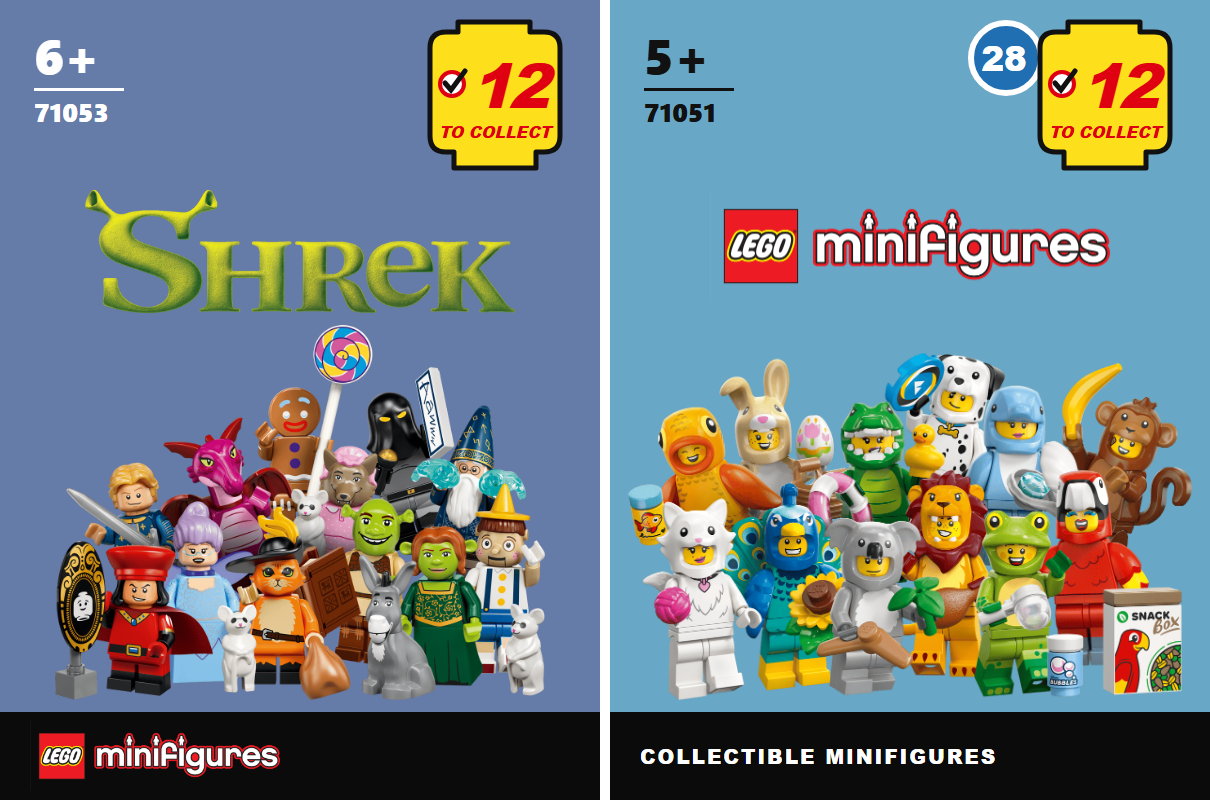
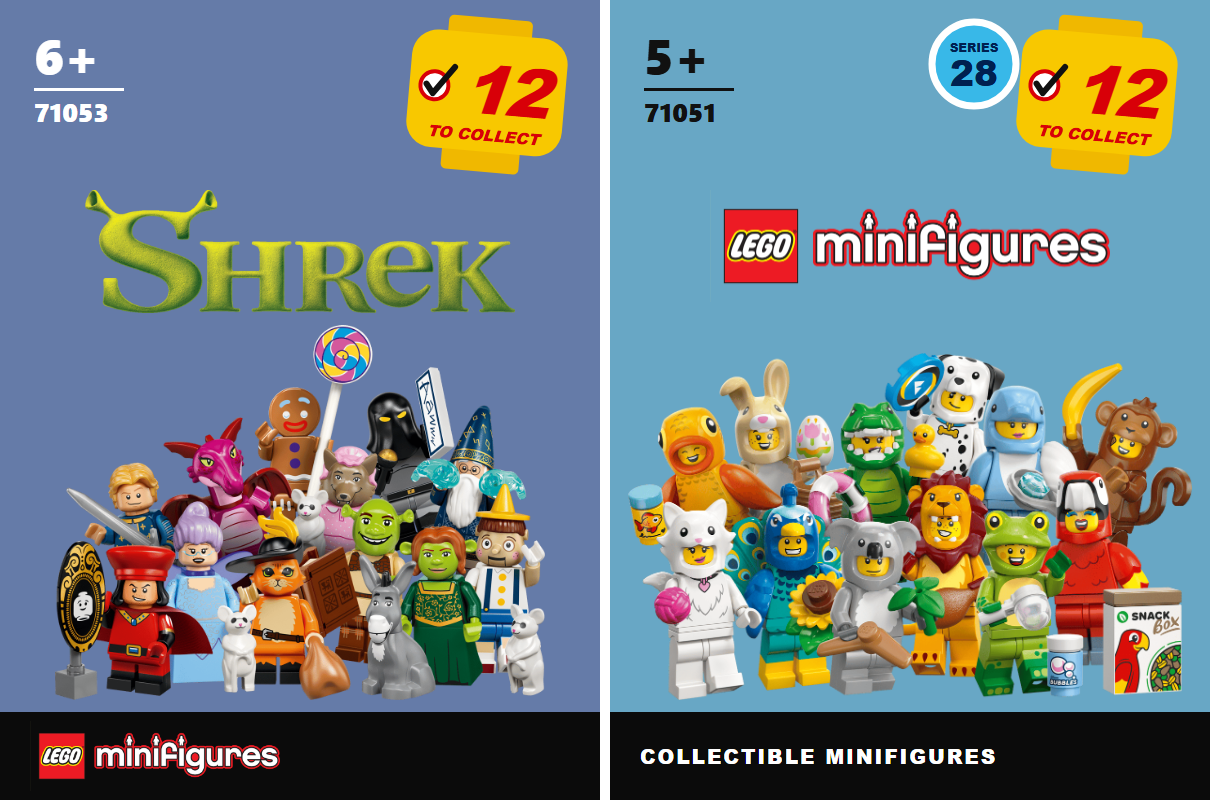
feat(V1-07): badge per owner example, handoff
Round SERIES frame and tilted yellow head, colours sampled from the owner's screenshot.

Claude-Session: https://claude.ai/code/session_01Bq4JK4ENQKsU7L7dhzG1Zq

Changed region(s): [[0.7645, 0.0, 0.9785, 0.2188], [0.3364, 0.0, 0.4893, 0.2188]]

diff --git a/docs/spike/V1-07-card.py b/docs/spike/V1-07-card.py
@@ -13,14 +13,15 @@ LOGOS = ROOT / "mockups/assets/logos"
 GROUP = ROOT / "mockups/assets/group"
 # SOURCE: same Chrome path as docs/spike/V0-06-cards.py
 CHROME = r"C:/Program Files/Google/Chrome/Application/chrome.exe"
-# SOURCE: colours sampled from the LEGO logo on the 71019 bag image, as in docs/spike/V0-06-cards.py
-RED, YELLOW = "#DF0012", "#FDE01B"
+# SOURCE: OWNER-SUPPLIED badge screenshot, 2026-11-02 (sampled pixels).
+RED = "#D80008"
+# SOURCE: OWNER-SUPPLIED badge screenshot, 2026-11-02 (sampled pixels).
+HEAD, HEAD_DARK, FRAME, NAVY = "#F8C800", "#F0B800", "#38B8E8", "#002050"
 
 # box: plain background area of the bag image (left, top, right, bottom) in bag pixels.
-# ring: series-number frame colour. SOURCE: read from the bag image of each series.
 SERIES = [
     dict(id="71053", age="6+", count=12, logo="shrek.png", logo_w=430, series=None, box=(0, 250, 25, 450)),
-    dict(id="71051", age="5+", count=12, logo=None, series=28, ring="#1F6FB2", box=(270, 58, 345, 72)),
+    dict(id="71051", age="5+", count=12, logo=None, series=28, box=(270, 58, 345, 72)),
 ]
 
 
@@ -37,18 +38,21 @@ def uri(path):
 
 
 def badge(s):
-    """Bag badge: count in a yellow minifigure head, series number in a round frame behind it."""
+    """Bag badge per the owner's example: SERIES and number in a round frame, count in a tilted head."""
     frame = ""
     if s["series"]:
-        frame = f"""<circle cx="38" cy="44" r="35" fill="{s['ring']}" stroke="#fff" stroke-width="6"/>
-<text x="36" y="57" text-anchor="middle" class="sn">{s['series']}</text>"""
-    return f"""<svg class="badge" width="230" height="190" viewBox="0 0 230 190">{frame}
-<path d="M72 34 Q72 18 88 18 H100 V8 H172 V18 H186 Q202 18 202 34 V122 Q202 138 186 138 H178 V154 H96 V138 H88 Q72 138 72 122 Z"
- fill="{YELLOW}" stroke="#111" stroke-width="5" stroke-linejoin="round"/>
-<rect x="82" y="58" width="24" height="24" rx="12" fill="#fff" stroke="{RED}" stroke-width="4"/>
-<path d="M87 69 l6 7 l14 -19" fill="none" stroke="#111" stroke-width="5" stroke-linecap="round"/>
-<text x="150" y="94" text-anchor="middle" class="cnt">{s['count']}</text>
-<text x="137" y="124" text-anchor="middle" class="tc">TO COLLECT</text></svg>"""
+        frame = f"""<circle cx="46" cy="50" r="42" fill="{FRAME}" stroke="#fff" stroke-width="7"/>
+<text x="46" y="38" text-anchor="middle" class="sl">SERIES</text>
+<text x="46" y="72" text-anchor="middle" class="sn">{s['series']}</text>"""
+    return f"""<svg class="badge" width="270" height="200" viewBox="0 0 270 200">{frame}
+<g transform="rotate(5 170 90)">
+<rect x="124" y="4" width="84" height="26" rx="5" fill="{HEAD_DARK}"/>
+<rect x="128" y="128" width="78" height="30" rx="5" fill="{HEAD_DARK}"/>
+<rect x="90" y="20" width="156" height="118" rx="26" fill="{HEAD}"/>
+<circle cx="115" cy="76" r="14" fill="#fff" stroke="{RED}" stroke-width="4"/>
+<path d="M107 75 l7 9 l20 -28" fill="none" stroke="#111" stroke-width="6" stroke-linecap="round" stroke-linejoin="round"/>
+<text x="186" y="100" text-anchor="middle" class="cnt">{s['count']}</text>
+<text x="168" y="127" text-anchor="middle" class="tc">TO COLLECT</text></g></svg>"""
 
 
 def page(s):
@@ -70,7 +74,7 @@ body{{font-family:"Segoe UI",Arial,sans-serif}}
 .age{{font-size:50px}} .rule{{width:90px;height:3px;background:currentColor;margin:8px 0}} .num{{font-size:26px}}
 .badge{{position:absolute;right:12px;top:14px}}
 .badge text{{font-family:"Arial Black",Arial,sans-serif;font-weight:900}}
-.sn{{font-size:34px;fill:#fff}} .cnt{{font-size:62px;font-style:italic;fill:{RED};letter-spacing:-4px}} .tc{{font-size:16px;font-style:italic;fill:{RED}}}
+.sl{{font-size:12px;fill:{NAVY}}} .sn{{font-size:36px;fill:{NAVY}}} .cnt{{font-size:68px;font-style:italic;fill:{RED};letter-spacing:-4px}} .tc{{font-size:16px;font-style:italic;fill:{RED}}}
 .theme{{position:absolute;left:0;right:0;top:190px;text-align:center}}
 .group{{position:absolute;left:18px;right:18px;bottom:100px;height:375px;object-fit:contain;object-position:bottom;width:564px}}
 .band{{position:absolute;left:0;right:0;bottom:0;height:88px;background:#0b0b0b;display:flex;align-items:center;padding:0 30px}}

diff --git a/docs/HANDOFF.md b/docs/HANDOFF.md
@@ -20,6 +20,7 @@
 - **V0-06 done (2026-10-31)**: 6 series cards from the v4 template, `docs/spike/V0-06-cards.py` (renders with headless Chrome) -> `mockups/cards/<id>.png`, overview `mockups/cards/all.png`. Logos `shrek.png`, `disney-100.png`, `marvel-studios.png` (real alpha, SOURCES.md). Numbered series use lockup + red SERIES N badge. Backgrounds sampled from each bag (71019 keeps approved v4). Mockup D home now shows the cards (`mockups/d/shots/home-desktop.png`, `mobile.png`).
 
 ## Next step
+0. **V1-07 card redesign, before Supabase (owner, 2026-11-02)** on `feature/V1-07-card-art`: official group images on flat bag colour, round SERIES frame, count in yellow head, no per-bag text. Examples `mockups/cards-v5/compare.png` (71053, 71051), generator `docs/spike/V1-07-card.py`, awaiting owner sign-off. Then find group images for all 52 series (older ones often lack transparency) and rebuild cards. PAUSED until then: V2-01 live apply (migration from dev, pasted in the Supabase SQL Editor).
 1. V1-01 merged into dev (PR #8, 2026-11-01); MVP 0 merged (PR #7). Vite/React/TS app in `app/`, CI `app-ci.yml`; Pages deploy of `app/dist` disabled until V1-05. TypeScript pinned ~6.0 (typescript-eslint needs <6.1). `.env` also in `.git/info/exclude`.
 2. V1-02 merged into dev (PR #9).
 3. **V1-03 in progress** on `feature/V1-03-images` (pushed). Done: (a) BrickLink codes for 51/52 series, visually verified (docs/spike/V1-03-codes-sheet-1..3.png); 71049 F1 has no code and keeps v1 images; 71001-19 -> bricklinkNo 17. (b) `scripts/fetch_figures.py <ids>` (resumable, 1 req/2 s, cut-out via `scripts/cutout.py`) -> `site/img/<id>/<id>-<n>.webp`. Batches 1-6 committed (39 series; batch 6 = 71001 71000 8909 8833 8831, re-run: written 0, failures []).
